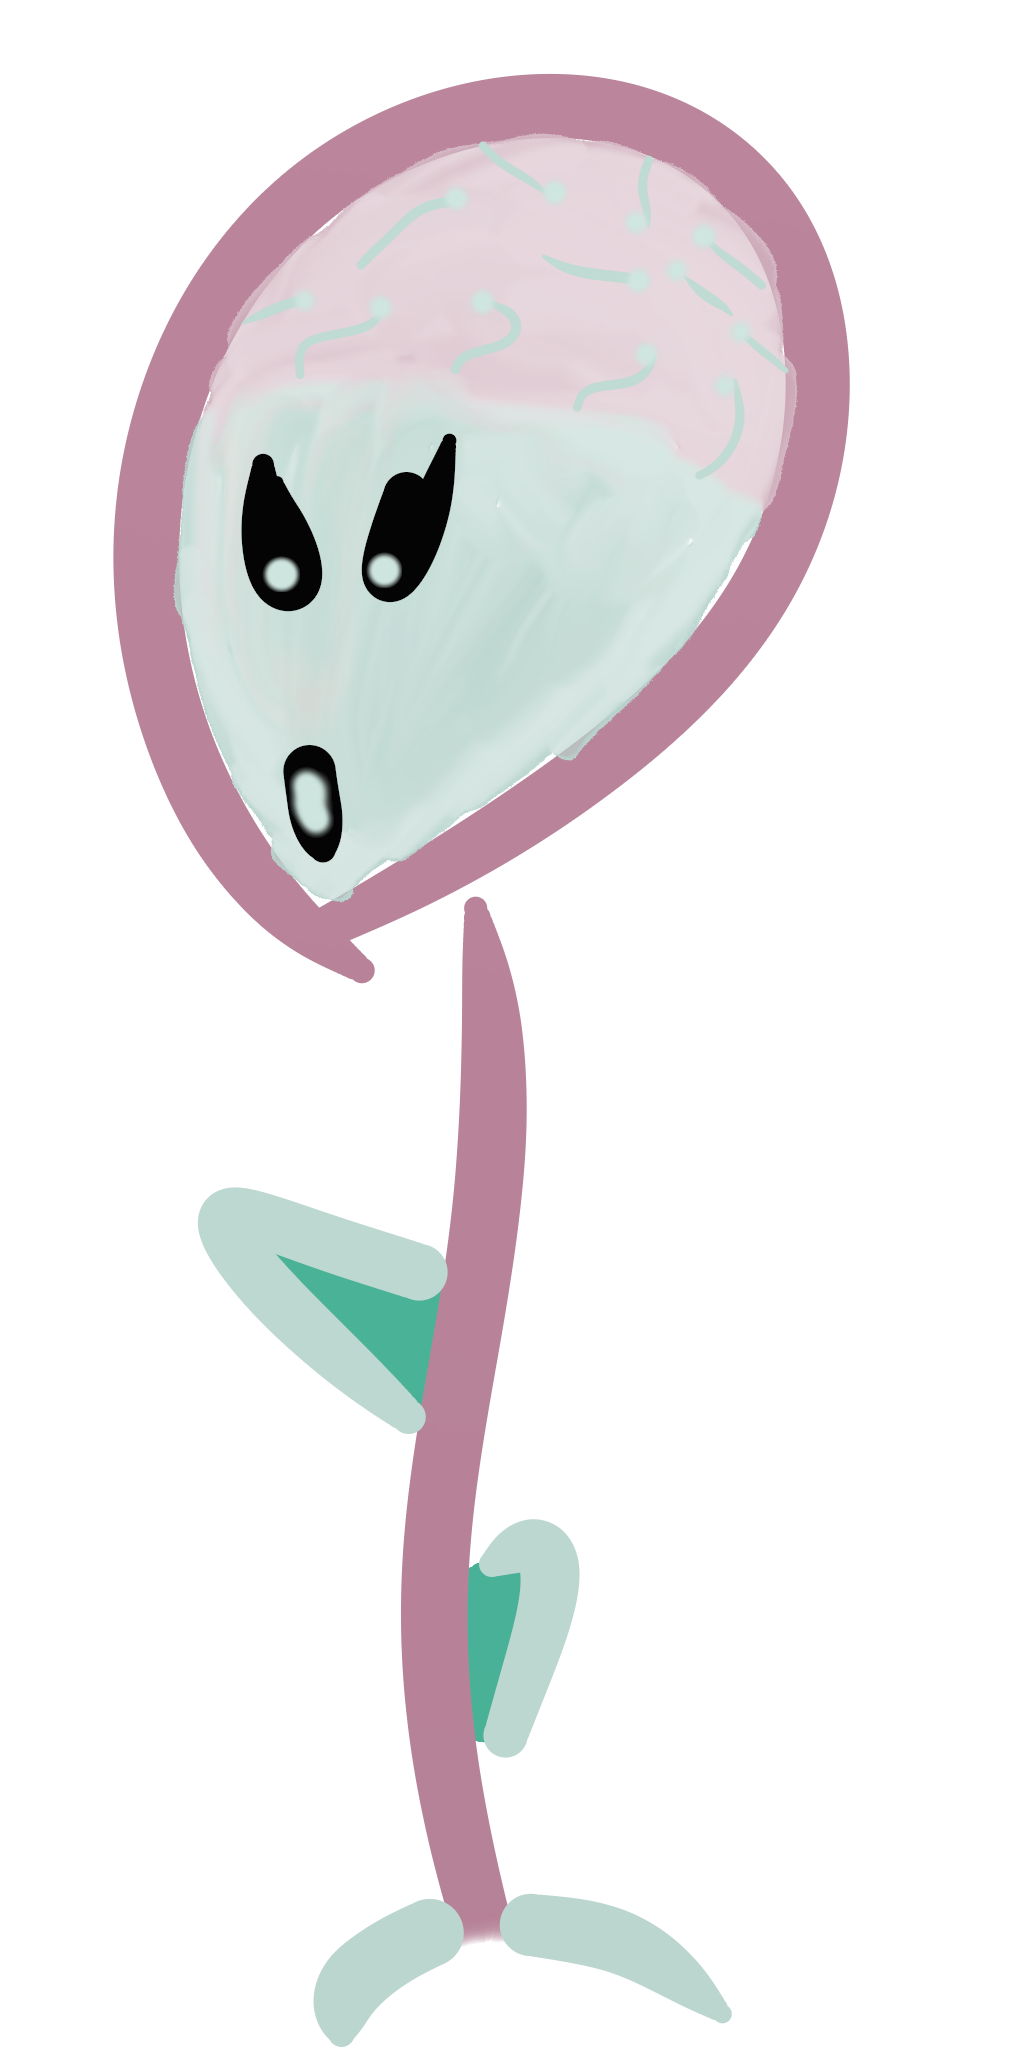
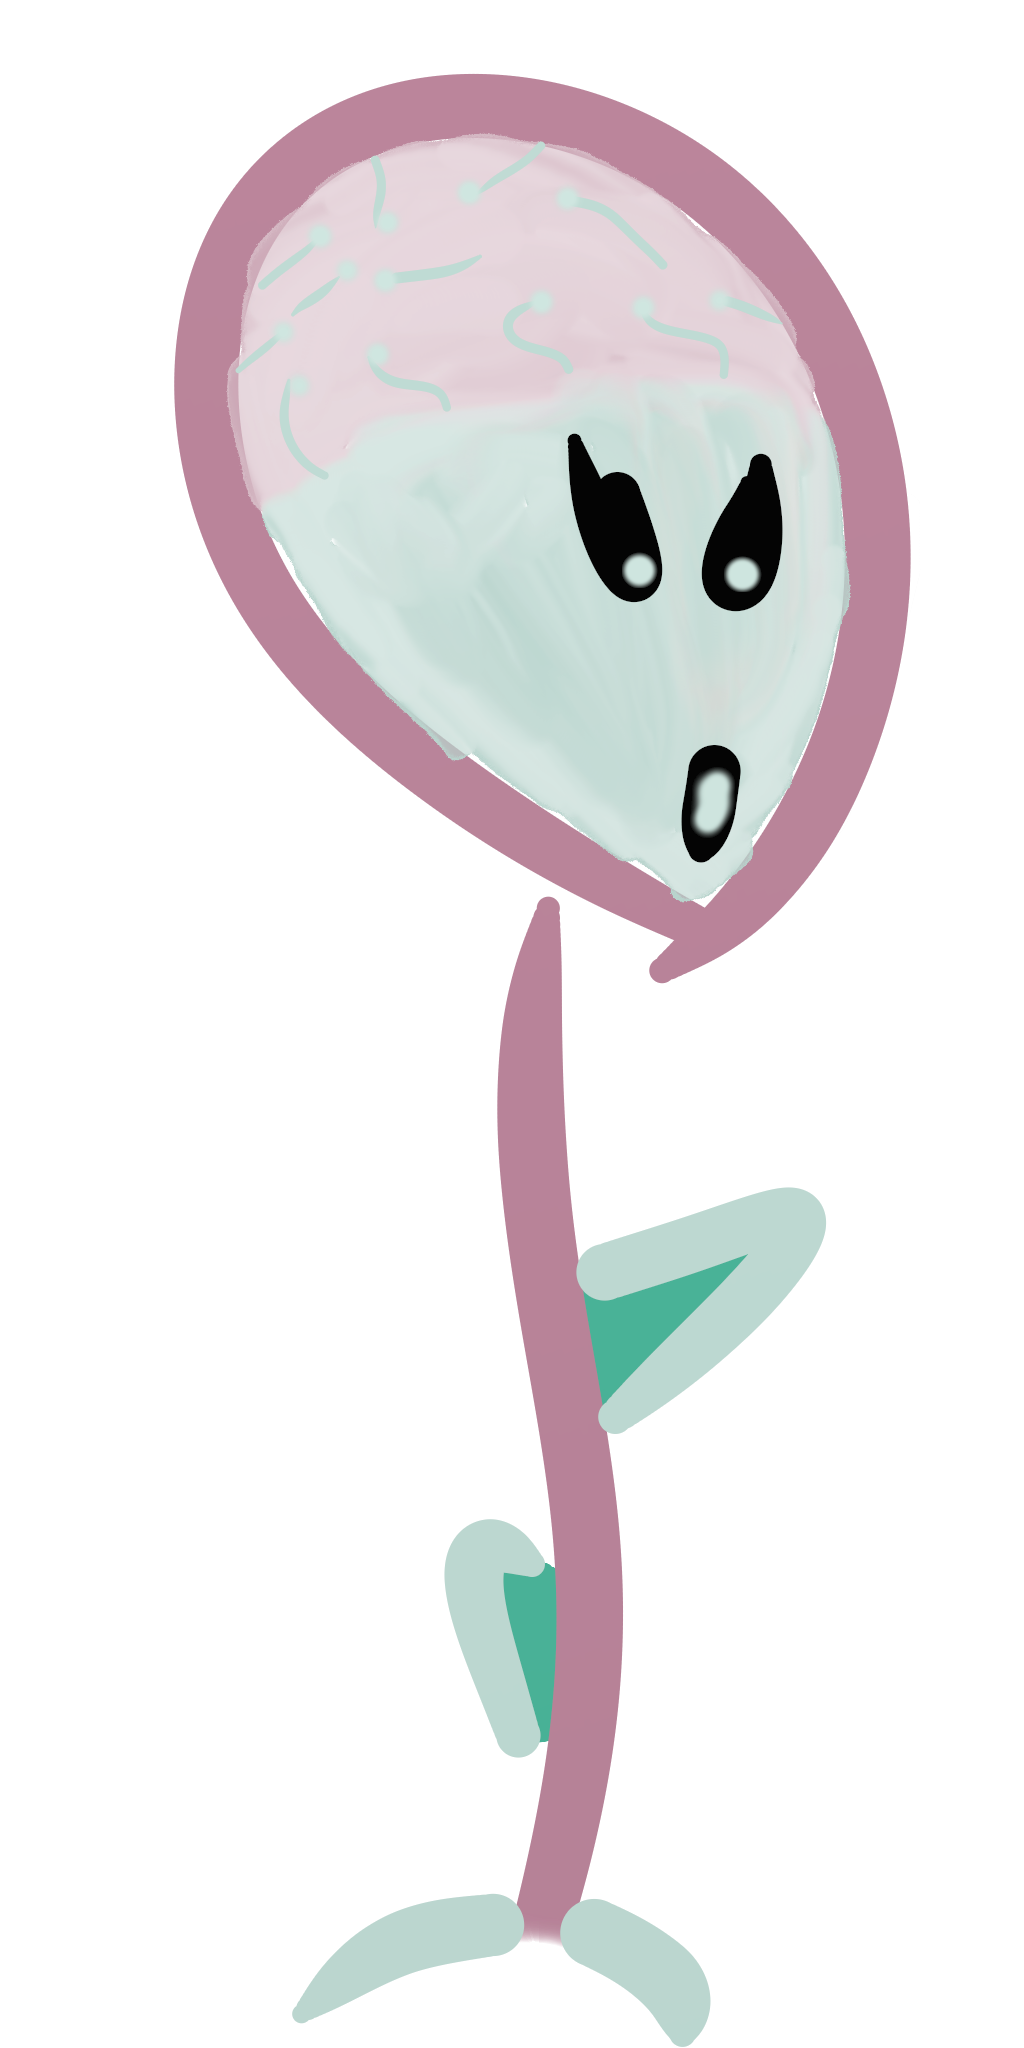
added planter

Changed region(s): [[0.0938, 0.0312, 0.9062, 0.9688], [0.625, 0.9688, 0.7188, 1.0], [0.2812, 0.9688, 0.375, 1.0]]

diff --git a/toybox/planter.js b/toybox/planter.js
@@ -1,0 +1,279 @@
+function planter(x, y, z) {
+	//	~*~*~*~*~*~*~*~*~*~*~*~*~*~*~*~*
+	//	Properties
+	//	~*~*~*~*~*~*~*~*~*~*~*~*~*~*~*~*
+	//	Entity Info
+	this.name = "planter";
+	this.id = 2015;
+	this.type = "enemy";
+	this.team = -1;
+	
+	//	Physics
+	this.x = x;
+	this.y = y;
+	this.z = z;
+	this.vx = 0;
+	this.vy = 0;
+	this.ax = 0;
+	this.ay = 0;
+	this.speed = 2;
+	this.jumpSpeed = 0;
+	this.direction = 1;
+	this.weight = 0;
+	this.strength = 1;
+	this.health = 1;
+	this.damageType = "none";
+	
+	//	Collision Info
+	this.prevX = 0;
+	this.prevY = 0;
+	this.collisionSize = 1;
+	this.collisionType = "solid";
+	
+	//	States
+	this.actionState = 1;
+	this.alive = true;
+	this.isGrounded = true;
+	this.moveDirection = 1;
+	
+	//	Timers
+	this.moveTimer = 0;
+	this.moveTimerMax = 3.0;
+	this.shootTimer = 0;
+	this.shootTimerMax = 2.0;
+	this.invincibleHitTimer = 0;
+	this.invincibleHitTimerMax = 0.3;
+	
+	//	Sprite
+	this.material = new THREE.SpriteMaterial({map: assets_planter, color: 0xFFFFFF, fog: true});
+	this.sprite = new THREE.Sprite(this.material);
+	this.sprite.position.set(this.x, this.y, this.z);
+	this.sprite.scale.set(1, 1, 1);
+	this.sprite.material.map.repeat.y = 0.5;
+	this.sprite.material.map.offset.y = 0.50;
+	scene.add(this.sprite);
+	
+	
+	//	~*~*~*~*~*~*~*~*~*~*~*~*~*~*~*~*
+	//	Basic Behaviors
+	//	~*~*~*~*~*~*~*~*~*~*~*~*~*~*~*~*
+	this.act = function() {
+		this.move();
+		this.strafe();
+		if (this.moveTimer >= this.moveTimerMax) {
+			this.moveTimer = theHelper.roll(20) / 10;
+			this.moveDirection *= -1;
+		} else {
+			this.moveTimer += modifier;
+		}
+		if (this.shootTimer >= this.shootTimerMax) {
+			this.shoot();
+			this.shootTimer = theHelper.roll(10) / 10;
+		} else {
+			this.shootTimer += modifier;
+		}
+		if (this.invincibleHitTimer > 0) {
+			this.invincibleHitTimer -= modifier;
+			this.sprite.material.opacity = 0.5;
+			this.moveTimer = 0;
+			this.actionState = 1;
+		} else {
+			this.invincibleHitTimer = 0;
+			this.sprite.material.opacity = 1;
+		}
+	};
+	
+	this.damage = function(source) {
+		if (this.invincibleHitTimer === 0) {
+			this.health -= source.strength;
+			var magnitude = Math.abs(source.vx);
+			if (magnitude < 2) {
+				magnitude = 2;
+			}
+			this.vx = magnitude*source.direction;
+			this.vy = 4*UP_DIRECTION;
+			this.invincibleHitTimer = this.invincibleHitTimerMax;
+		}
+		if (this.health <= 0) {
+			this.alive = false;
+		}
+	};
+	
+	this.born = function() {
+		theObjectFactory.create(new planter_body(this.x, this.y, theObjectFactory.zindex.projectiles));
+		theObjectFactory.justAdded().attachment = this;
+	};
+	this.born();
+	
+	this.death = function() {
+	};
+
+	
+	//	~*~*~*~*~*~*~*~*~*~*~*~*~*~*~*~*
+	//	Other Behaviors
+	//	~*~*~*~*~*~*~*~*~*~*~*~*~*~*~*~*
+	this.move = function() {
+		this.vx = this.speed*this.moveDirection;
+	};
+	
+	this.strafe = function() {
+		if (this.x > THEPLAYER.x) {
+			this.direction = -1;
+		} else {
+			this.direction = 1;
+		}
+		this.sprite.scale.set(this.direction, this.sprite.scale.y, this.sprite.scale.z);
+	};
+	
+	this.shoot = function() {
+		theObjectFactory.create(new spit(this.x + this.direction, this.y, theObjectFactory.zindex.projectiles));
+		theObjectFactory.justAdded().sprite.scale.set(0.5, 0.5, 0.5);
+		theObjectFactory.justAdded().direction = this.direction;
+	};
+	
+	
+	//	~*~*~*~*~*~*~*~*~*~*~*~*~*~*~*~*
+	//	Collisions
+	//	~*~*~*~*~*~*~*~*~*~*~*~*~*~*~*~*
+	this.collide_setup = function() {
+	};
+	
+	this.collide_begin = function(target) {
+		if (target.type === "player" && this.invincibleHitTimer === 0) {
+			target.damage(this);
+		}
+	};
+	
+	this.collide_down = function(target) {
+	};
+	
+	this.collide_left = function(target) {
+		if(target.collisionType === "solid" && target.type === "tile") {
+			if (!(collision_up(this, target))) {
+				this.vx = this.speed;
+				this.x = target.x+1;
+			}
+		} else if (target.type === "enemy") {
+			this.direction = 1;
+			this.vx += this.speed * this.direction;
+		}
+	};
+	
+	this.collide_right = function(target) {
+		if(target.collisionType === "solid" && target.type === "tile") {
+			if (!(collision_up(this, target))) {
+				this.vx = this.speed * -1;
+				this.x = target.x-1;
+			}
+		} else if (target.type === "enemy") {
+			this.direction = -1;
+			this.vx += this.speed * this.direction;
+		}
+	};
+	
+	this.collide_up = function(target) {
+	};
+	
+	this.collide_end = function(target) {
+	
+	};
+}
+
+function planter_body(x, y, z) {
+	//	~*~*~*~*~*~*~*~*~*~*~*~*~*~*~*~*
+	//	Properties
+	//	~*~*~*~*~*~*~*~*~*~*~*~*~*~*~*~*
+	//	Entity Info
+	this.name = "planter_body";
+	this.id = 2015;
+	this.type = "enemy";
+	this.team = -1;
+	
+	//	Physics
+	this.x = x;
+	this.y = y;
+	this.z = z;
+	this.vx = 0;
+	this.vy = 0;
+	this.ax = 0;
+	this.ay = 0;
+	this.speed = 2;
+	this.jumpSpeed = 0;
+	this.direction = 1;
+	this.weight = 0;
+	this.strength = 1;
+	this.health = 1;
+	this.damageType = "none";
+	
+	//	Collision Info
+	this.prevX = 0;
+	this.prevY = 0;
+	this.collisionSize = 1;
+	this.collisionType = "solid";
+	
+	//	States
+	this.actionState = 1;
+	this.alive = true;
+	this.isGrounded = true;
+	this.attachment;
+	
+	//	Timers
+	
+	//	Sprite
+	this.material = new THREE.SpriteMaterial({map: assets_planter_body, color: 0xFFFFFF, fog: true});
+	this.sprite = new THREE.Sprite(this.material);
+	this.sprite.position.set(this.x, this.y, this.z);
+	this.sprite.scale.set(1, 1, 1);
+	this.sprite.material.map.repeat.y = 0.5;
+	scene.add(this.sprite);
+	
+	//	~*~*~*~*~*~*~*~*~*~*~*~*~*~*~*~*
+	//	Basic Behaviors
+	//	~*~*~*~*~*~*~*~*~*~*~*~*~*~*~*~*
+	this.act = function() {
+		this.followAttachment();
+		
+		if (!(this.attachment.alive)) {
+			this.alive = false;
+		}
+	};
+	
+	this.damage = function(source) {
+	};
+
+	
+	//	~*~*~*~*~*~*~*~*~*~*~*~*~*~*~*~*
+	//	Other Behaviors
+	//	~*~*~*~*~*~*~*~*~*~*~*~*~*~*~*~*
+	this.followAttachment = function() {
+		this.x = this.attachment.x;
+		this.y = this.attachment.y + 1;
+		this.direction = this.attachment.direction;
+		this.sprite.scale.set(this.direction, this.sprite.scale.y, this.sprite.scale.z);
+	};
+	
+	
+	//	~*~*~*~*~*~*~*~*~*~*~*~*~*~*~*~*
+	//	Collisions
+	//	~*~*~*~*~*~*~*~*~*~*~*~*~*~*~*~*
+	this.collide_setup = function() {
+	};
+	
+	this.collide_begin = function(target) {
+	};
+	
+	this.collide_down = function(target) {
+	};
+	
+	this.collide_left = function(target) {
+	};
+	
+	this.collide_right = function(target) {
+	};
+	
+	this.collide_up = function(target) {
+	};
+	
+	this.collide_end = function(target) {
+	};
+}

diff --git a/scripts/assets.js b/scripts/assets.js
@@ -11,6 +11,7 @@ function loadAssets() {
 	assets_background = THREE.ImageUtils.loadTexture("/assets/images/background.png");
 	assets_imploder = THREE.ImageUtils.loadTexture("/assets/images/imploder.png");
 	assets_planter = THREE.ImageUtils.loadTexture("/assets/images/planter.png");
+	assets_planter_body = THREE.ImageUtils.loadTexture("/assets/images/planter.png");
 	assets_spit = THREE.ImageUtils.loadTexture("/assets/images/spit.png");
 	assets_candy = THREE.ImageUtils.loadTexture("/assets/images/candy.png");
 	assets_shocker = THREE.ImageUtils.loadTexture("/assets/images/shocker.png");

diff --git a/game.html b/game.html
@@ -67,6 +67,7 @@
 <script src="toybox/hander.js"></script>
 <script src="toybox/exploder.js"></script>
 <script src="toybox/eyeballer.js"></script>
+<script src="toybox/planter.js"></script>
 <script src="toybox/background.js"></script>
 <script src="scripts/controls.js"></script>
 <script src="scripts/assets.js"></script>

diff --git a/scripts/factory.js b/scripts/factory.js
@@ -73,6 +73,9 @@ function factory() {
 			case 2014:
 				this.list.push(new eyeballer(x, y, this.zindex.objects));
 				break;
+			case 2015:
+				this.list.push(new planter(x, y, this.zindex.objects));
+				break;
 			default:
 		}
 	};
